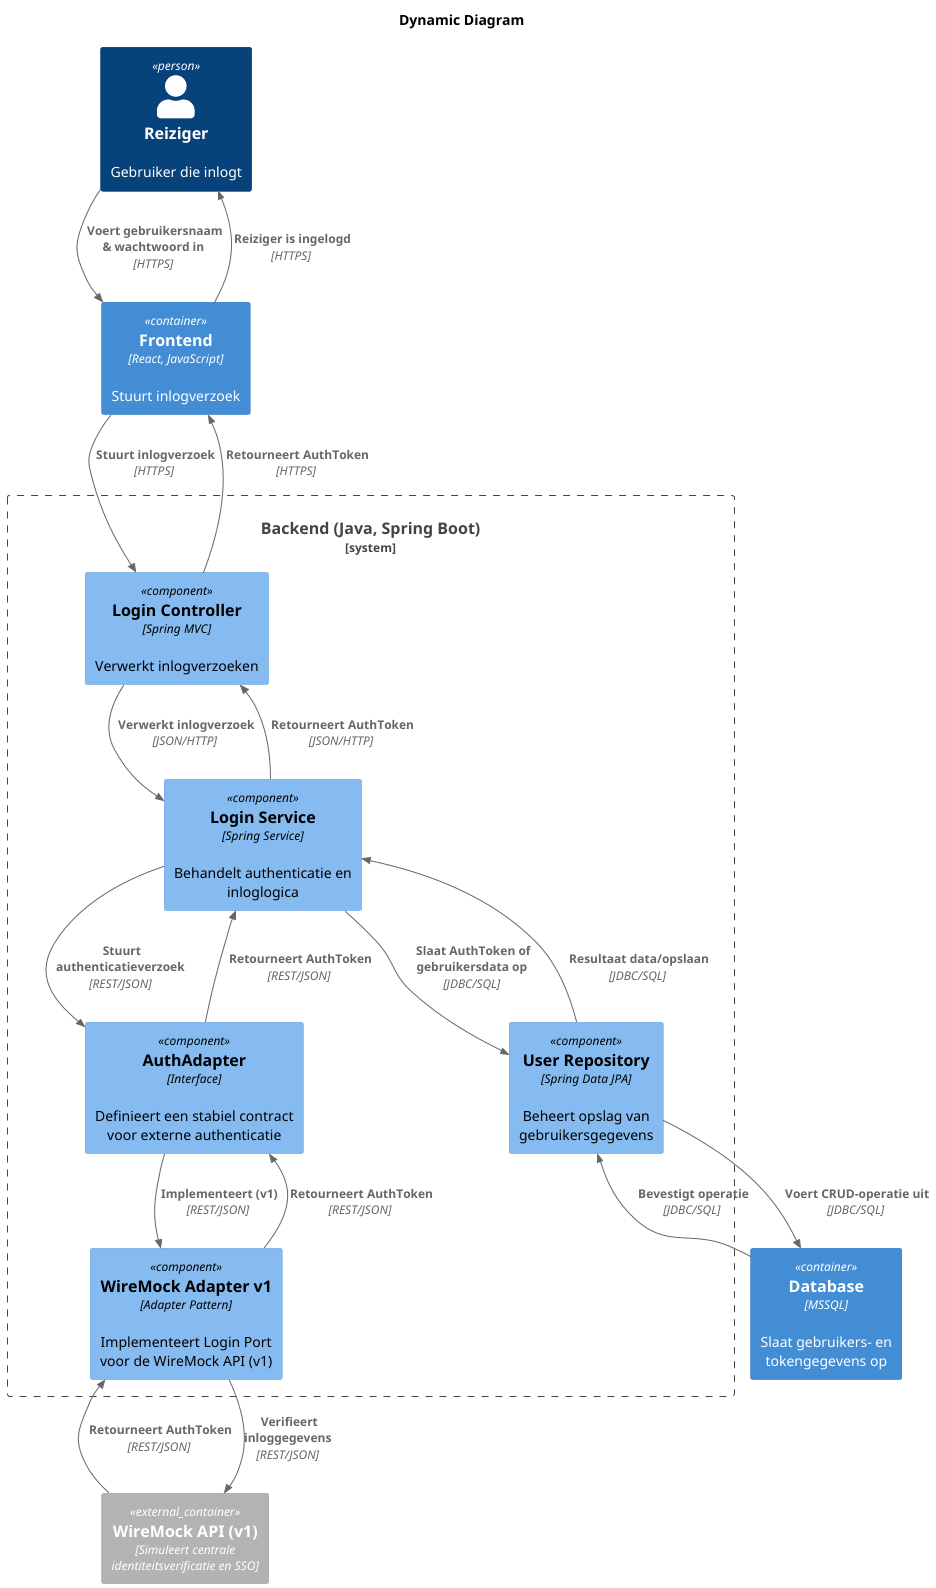
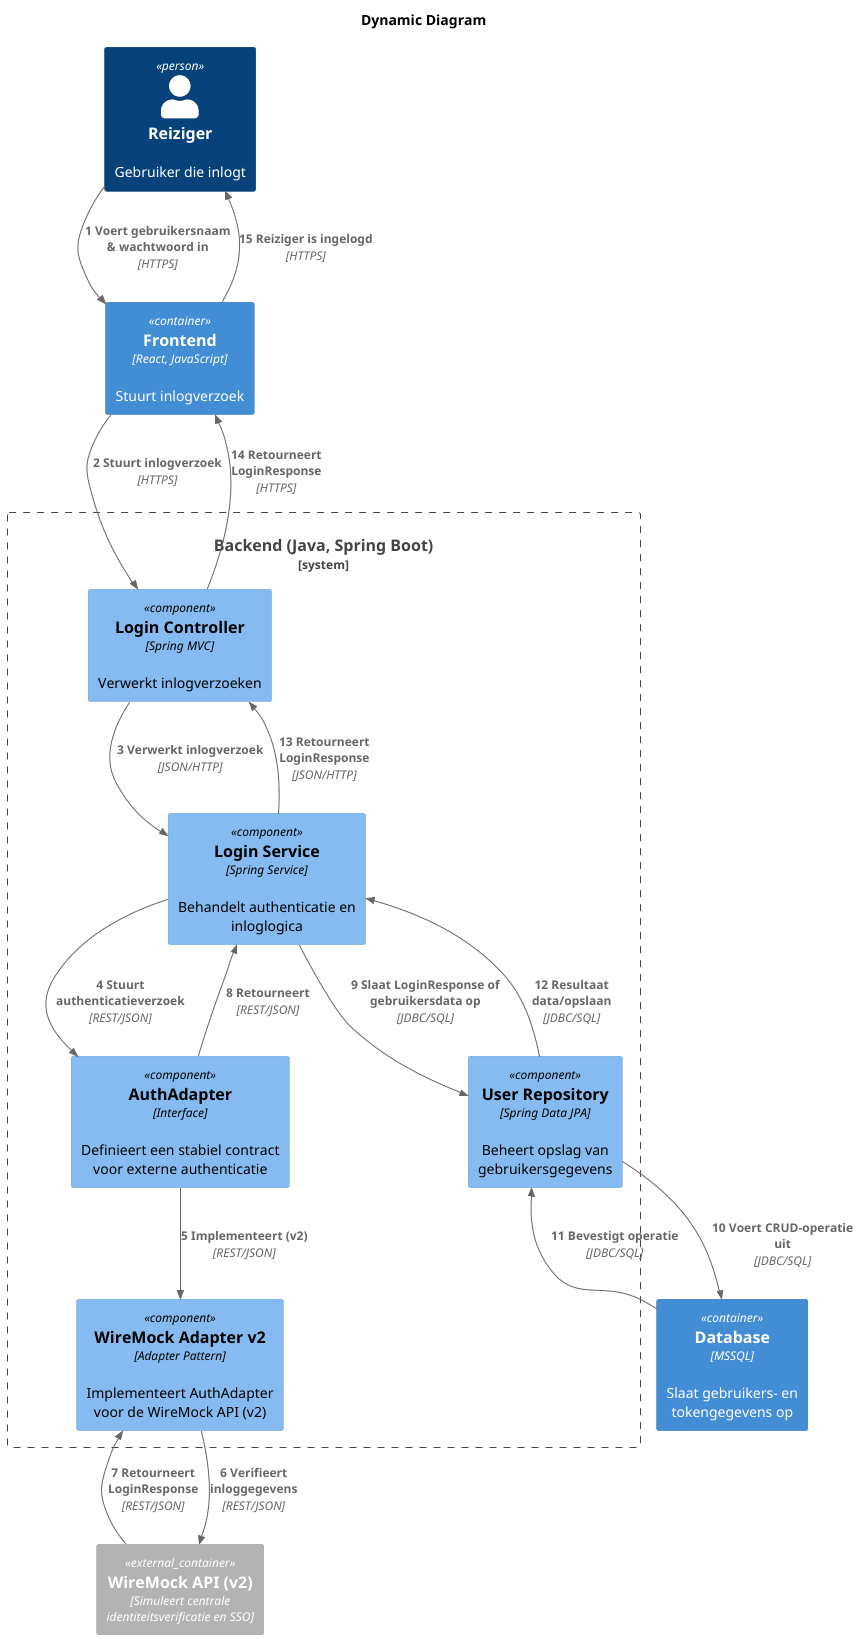
update

Changed region(s): [[0.0302, 0.0309, 0.9977, 1.0], [0.4233, 0.0, 0.5442, 0.0309]]

diff --git a/software-guidebook/README.md b/software-guidebook/README.md
@@ -32,6 +32,7 @@ Het onderstaande diagram toont de context van Triptop, inclusief de gebruikers e
 
 We hebben besloten om ReisAgent niet een person te maken in ons context diagram. Dit is omdat er geen user story voor de reisagent is en dus geen functionaliteit heeft binnen de applicatie.  Als er een extra functionaliteit voor de reisagent komt zal hij toegevoegd worden aan het context diagram.
 
+We gebruiken als betalingsprovider Stripe. Dit is verantwoord in onze [Stripe ADR](#adr-001-keuze-van-payment-service-provider-psp)
 ## 3. Functional Overview
 
 Om de belangrijkste features toe te lichten zijn er user stories en twee domain stories gemaakt en een overzicht van het domein in de vorm van een domeinmodel. Op deze plek staat typisch een user story map maar die ontbreekt in dit voorbeeld.
@@ -91,7 +92,6 @@ Voordat deze casusomschrijving tot stand kwam, heeft de opdrachtgever de volgend
 
 ### Ontwerpvraag
 Hoe zorg je dat een wijziging in een of meerdere APIs niet leidt tot een grote wijziging in de applicatie? Specifieker: hoe zorg je ervoor dat een wijziging in de API van een externe service niet leidt tot een wijziging in de front-end maar flexibel kan worden opgevangen door de back-end?
-### Context
 
 De TripTop applicatie gebruikt een centrale authenticatieprovider die gebaseerd is op de WireMock API. Gebruikers loggen in via deze externe service, en de applicatie haalt daarvoor een token op en controleert de toegangsrechten via een "check" endpoint.
 
@@ -136,30 +136,32 @@ De TripTop applicatie gebruikt een centrale authenticatieprovider die gebaseerd 
     </response>
     ```
 
-### Design Patterns en Design Principles
+### Design Patterns 
 
 
-1. **Adapter Pattern:**
+**Adapter Pattern:**
 - We hebben een uniforme interface (bijvoorbeeld `AuthAdapter`) gedefinieerd die twee concrete implementaties heeft:
   - **WireMockAuthAdapterV1:** voor de oude API.
   - **WireMockAuthAdapterV2:** voor de nieuwe API.
 - Beide adapters bieden dezelfde methodes (bijv. `login()` en `check()`) en retourneren altijd een uniform DTO (bijvoorbeeld `LoginResponse` en `CheckResponse`).
 - Hierdoor hoeft de controller (en dus de front-end) niets te weten van de verschillen tussen de oude en nieuwe API. Alleen de back-end adapter past zich aan op basis van de configuratie of op basis van de tokenlengte (bijvoorbeeld: bestaande gebruikers blijven via V1, nieuwe gebruikers via V2).
 
-2. **Single Responsibility Principle (SRP):**
+### Design Principles
+
+1. **Single Responsibility Principle (SRP):**
 - Elke klasse heeft één verantwoordelijkheid. Zo beheert de adapter de communicatie met de externe API en vertaalt deze response naar de interne DTO's.
 - De service laag beheert de businesslogica en de gebruikerssessies, terwijl de controller zich alleen richt op het ontvangen en retourneren van HTTP-verzoeken.
 
-3. **Open/Closed Principle (OCP):**
+2. **Open/Closed Principle (OCP):**
 - De back-end is zo opgezet dat deze openstaat voor uitbreiding (bijvoorbeeld voor een derde versie van de API) zonder dat bestaande code aangepast hoeft te worden. Nieuwe adapters kunnen eenvoudig toegevoegd worden.
 
-4. **Dependency Inversion Principle (DIP):**
+3. **Dependency Inversion Principle (DIP):**
 - De controller en service laag werken tegen de abstracte interface (`AuthAdapter`) in plaats van tegen concrete implementaties. Hierdoor kunnen we de concrete implementatie (V1 of V2) eenvoudig wisselen zonder dat de hogere lagen (controller, service) gewijzigd hoeven te worden.
 
-#### Component Diagram
+### Component Diagram
 ![Component Diagram](component-code/ahmed/component-Component_Diagram___TripTop_Backend.png)
 
-#### Toelichting Component Diagram
+
 
 - **Frontend:**  
   De gebruikersinterface die de gebruiker in staat stelt om reizen te plannen en te beheren.
@@ -178,13 +180,20 @@ De TripTop applicatie gebruikt een centrale authenticatieprovider die gebaseerd 
 - **Database:**  
   Een MSSQL-database die gebruikers informatie beheert.
 
----
+Ik heb besloten om WireMock Adapter v1 en v2 op te nemen in het component diagram, omdat ik het duidelijk kan maken via het diagram dat er gebruik gemaakt wordt van een adapter.
 
-#### Code Diagram – TripTop Applicatie
+---
+### Dynamic Diagram
+![Dynamic Diagram](component-code/ahmed/dynamic-Dynamic_Diagram.png)
+
+Dit is een dynamisch diagram voor het inloggen met Wiremock V2.
+LoginResponse is te vinden in het Code Diagram.
+
+### Code Diagram
 
 
 ![Code Diagram](component-code/ahmed/login-Login_Component_Class_Diagram.png)
-#### Toelichting Code Diagram
+
 
 - **AuthController:**  
   De controller ontvangt HTTP-verzoeken (login en check) en roept de AuthService aan om de businesslogica uit te voeren. Hij ontvangt en retourneert DTO's (AuthLoginRequest/Response en AuthCheckRequest/Response).
@@ -208,13 +217,18 @@ De TripTop applicatie gebruikt een centrale authenticatieprovider die gebaseerd 
   - **AuthCheckRequest:** Bevat gebruikersnaam en de application voor de check.
   - **AuthCheckResponse:** Bevat de toegangsstatus (access) en de rol (role) na het uitvoeren van de check.
 
+
+### Sequence Diagram
+![Sequence Diagram](component-code/ahmed/sequence.png)
+
+
 ---
 ## Toelichting Amine
-### ontwerpvraag
+### Ontwerpvraag
 Ik heb voor dit project gekozen voor de ontwerpvraag: Hoe zorg je ervoor dat je makkelijk de ene externe service kan vervangen door een andere die ongeveer hetzelfde doet?
 Ik vond deze vraag interessant omdat ik in mijn project met verschillende externe services moet werken en het belangrijk is dat ik deze makkelijk kan vervangen zonder dat dit invloed heeft op de rest van de applicatie.
 
-### Bijpassend design pattern
+### Design pattern
 Het design pattern waar ik voor gekozen heb is het Adapter pattern. Dit pattern maakt het mogelijk om de communicatie met externe services op een uniforme manier te organiseren. Door gebruik te maken van adapters kan ik verschillende externe services integreren zonder dat dit invloed heeft op de rest van de applicatie. Dit zorgt ervoor dat ik makkelijk kan switchen tussen verschillende services zonder dat ik de rest van de applicatie hoef aan te passen.
 
 Ik heb voor dit project meerdere design patterns overwogen, maar uiteindelijk gekozen voor het Adapter pattern omdat dit het beste aansluit bij mijn ontwerpvraag. Het Strategy Pattern bijvoorbeeld zou ook een optie zijn, maar dit zou meer complexiteit met zich meebrengen dan nodig is voor dit project. Het Adapter pattern is eenvoudig te implementeren en zorgt ervoor dat ik makkelijk kan switchen tussen verschillende externe services zonder dat dit invloed heeft op de rest van de applicatie.
@@ -226,27 +240,27 @@ Ik heb ervoor gekozen om het Dependency Inversion Principle (DIP) toe te passen 
 
 
 ### Component diagram
-![component diagram](component-code/amine/Component%20diagram.png)
+![component diagram](component-code/amine/component-diagram.png)
 
 Hierboven zie je mijn component diagram. Ik heb in dit geval alleen het gedeelte van de betalingen gemaakt.
 Wat goed is im in het achterhoofd te houden is dat er wel sprake is van een payment Port, maar ik deze niet heb meegenomen omdat deze in de Service zit.
 Verder toon ik in dit diagram alleen de stripe adapter. De bedoeling is dat ik de stripe adapter en de paypal adapter gemakkelijk moet kunnen omwisselen.
 
 ### Dynamic component diagram
-![Dynamic component diagram](component-code/amine/Dynamic Component%20diagram.png)
+![Dynamic component diagram](component-code/amine/Dynamic-component-diagram.png)
 
 Hierboven zie je mijn dynamische component diagram. Dit diagram laat zien hoe de verschillende componenten met elkaar communiceren en hoe de adapters de communicatie met de externe services afhandelen.
 
 
-### code diagram
-![code diagram](component-code/amine/Code%20diagram.png)
+### Code diagram
+![code diagram](component-code/amine/code-diagram.png)
 
 Hierboven zie je mijn code diagram. Hier ga ik specifiek in op de technische zaken. Ik heb voor dit prototype goed gekeken naar wat de gemene deler was voor het afhandelen van een betaling voor de stripe en paypal API. In beide gevallen moest er eerst een "order" gemaakt worden die vervolgens geaccepteerd kan worden. Ik heb de functies voor het maken van de order en het accepteren van de order in een "PaymentPort" gezet. Dit zorgt ervoor dat ik deze functies makkelijk kan implementeren in de adapters voor de verschillende externe services.
 Hierdoor kan ik door middel van het aangeven in de properties gemakkelijk omschakelen van Paypal naar Stripe.
 De betalingen worden uiteraard ook netjes opgeslagen in de database.
 
-### sequence diagram
-![sequence diagram](component-code/amine/Sequence%20diagram.png)
+### Sequence diagram
+![sequence diagram](component-code/amine/Sequence-diagram.png)
 
 Hierboven zie je mijn sequence diagram. Dit diagram laat zien hoe de verschillende componenten met elkaar communiceren en hoe de adapters de communicatie met de externe services afhandelen.
 
@@ -254,8 +268,9 @@ Hierboven zie je mijn sequence diagram. Dit diagram laat zien hoe de verschillen
 
 Hoe kunnen we verschillende betalingssystemen integreren voor de verschillende bouwstenen?
 
-## Component Diagram
+### Component Diagram
 ![Component Diagram](component-code/simme/component-diagram.png)
+
 Dit diagram toont de structurele organisatie en afhankelijkheden tussen de verschillende modules in het systeem. Het diagram laat zien:
 
 - Een duidelijke scheiding tussen frontend en backend-componenten, met een API-grens via de BetalingController
@@ -268,7 +283,7 @@ Deze componentarchitectuur vormt een "payment hub"-benadering, waarbij een gespe
 
 De gekozen architectuur implementeert de aanbevolen praktijken voor betalingssysteemintegratie, waaronder directe API-integratie met adaptermechanismen voor het beheren van meerdere betalingsgateways.
 
-## Dynamic Component Diagram
+### Dynamic Component Diagram
 
 ![Dynamic component diagram](component-code/simme/dynamic-diagram.png)
 
@@ -281,7 +296,7 @@ Dit dynamisch diagram visualiseert de volledige levenscyclus van een betalingstr
 
 Deze architectuur biedt een robuuste manier om meerdere betalingsproviders te ondersteunen zonder de kernlogica van het systeem aan te tasten. De genummerde stappen maken de procesflow duidelijk traceerbaar en debugbaar.
 
-## Sequence Diagram
+### Sequence Diagram
 
 ![Sequence](component-code/simme/sequence-diagram.png)
 Het sequence diagram detailleert de exacte interacties tussen systeemcomponenten tijdens het betalingsproces. Het diagram:
@@ -293,7 +308,7 @@ Het sequence diagram detailleert de exacte interacties tussen systeemcomponenten
 
 Het diagram biedt een gedetailleerd overzicht van zowel de normale betalingsflow als alternatieve paden zoals annuleringen en statuscontroles. Deze methodische weergave verzekert dat alle mogelijke interacties correct worden geïmplementeerd.
 
-## Class Diagram
+### Class Diagram
 
 ![Component Diagram](component-code/simme/class-diagram.png)
 
@@ -307,7 +322,7 @@ Het klassendiagram definieert de structurele elementen en hun relaties binnen he
 
 Deze architectuur maakt het toevoegen van nieuwe betalingsmethoden eenvoudig door simpelweg een nieuwe adapter te implementeren die voldoet aan de interface, zonder wijzigingen aan de kerncode.
 
-### Toelichting Sybren
+## Toelichting Sybren
 
 
 ### Ontwerpvraag
@@ -320,7 +335,7 @@ Een design principe die op dit ontwerp is toegepast, is de Dependency Inversion.
 
 ---
 
-### STATISCHE COMPONENT DIAGRAM
+### Component Diagram
 
 ![Component Diagram](component-code/sybren/component-diagram.png)
 
@@ -332,7 +347,7 @@ Als laatste zie je dat de BoekingOverzichtService BoekingingInterface implemente
 
 ---
 
-### CODE DIAGRAM
+### Code Diagram
 ![](component-code/sybren/class-diagram.png)
 In deze klassendiagram zijn twee domein klassen te zien, namelijk Boeking en Overnachting. Er wordt hier onderscheid gemaakt tussen een boeking en overnachting, omdat deze
 op een andere manier afgehandeld worden. Er is sprake van een overnachting als de reiziger naar mogelijke opties zoekt. Als een bepaalde overnachting gekozen wordt en deze ook geboekt wordt, is er sprake van een boeking.
@@ -341,10 +356,10 @@ op een andere manier afgehandeld worden. Er is sprake van een overnachting als d
 
     
 ---
-### DYNAMISCHE COMPONENT DIAGRAM
+### Dynamic Diagram
 ![](component-code/sybren/dynamische-component-diagram.png)
 
-### SEQUENCE DIAGRAM
+### Sequence Diagram
 ![](component-code/sybren/sequence-diagram-sybren.png)
 
 
@@ -365,6 +380,8 @@ De container diagram toont in meer detail hoe Triptop integreert met de verschil
 
 We hebben besloten om ReisAgent niet een person te maken in ons context diagram. Dit is omdat er geen user story voor de reisagent is en dus geen functionaliteit heeft binnen de applicatie.
 
+We hebben voor de backend besloten om Spring boot te gebruiken als framework. Dit is verantwoord in onze [Framework ADR](#adr-003-framework-keuze-voor-triptop-systeem)
+Onze database keuze is verantwoord in onze [Database ADR](#adr-005-database-keuze-voor-triptop-systeem)
 
 ### 7.2 Dynamische Container Diagram
 ### 7.2.1  Inloggen
@@ -504,9 +521,9 @@ Voor het realiseren van een werkend prototype is het essentieel het juiste frame
 
 | **Criteria**               | **Spring Boot** | **Quarkus** | **Micronaut** | **Jakarta EE** | **Vert.x** | **Dropwizard** | **Helidon** |
 |----------------------------|:---------------:|:-----------:|:-------------:|:--------------:|:----------:|:--------------:|:-----------:|
-| **Makkelijk in gebruik**   | ++              | +           | +             | -              | --         | +              | -           |
-| **Opstarttijd**            | -               | ++          | +             | --             | ++         | 0              | +           |
-| **Geheugengebruik**        | -               | ++          | +             | 0              | ++         | 0              | +           |
+| **Makkelijk in gebruik <sup>1</sup>**   | ++              | +           | +             | -              | --         | +              | -           |
+| **Snelheid opstarttijd <sup>2</sup>**         | -               | ++          | +             | --             | ++         | 0              | +           |
+| **Geheugengebruik <sup>3</sup>**       | -               | ++          | +             | 0              | ++         | 0              | +           |
 | **Community & Ecosysteem** | ++              | +           | +             | 0              | -          | 0              | -           |
 | **Team Ervaring**          | ++              | --          | --            | --             | --         | --             | --          |
 
@@ -521,11 +538,13 @@ Wij kiezen voor **Spring Boot** vanwege de uitstekende gebruiksvriendelijkheid, 
 
 #### Bronnen
 
-- Venturelli, I. (2024, December 6). Choosing the right Java microservices framework: Spring Boot, Quarkus, Micronaut, and beyond. Medium. https://medium.com/codex/choosing-the-right-java-microservices-framework-spring-boot-quarkus-micronaut-and-beyond-e53f11704e58
+#### Bronnen
 
-- Chmielarz, M. (2025, March 24). Overview of next-generation Java frameworks. SoftwareMill. https://softwaremill.com/overview-of-next-generation-java-frameworks/
+<sup>1</sup> Johns, R. (n.d.). Want to level up in Java? Use these Java frameworks! Hackr.io. https://hackr.io/blog/java-frameworks
 
-- Dansiviter. (2021, June 27). Opinionated take on Java Microservices Frameworks. DEV Community. https://dev.to/dansiviter/opinionated-take-on-java-microservices-frameworks-4ebh
+<sup>2</sup> Dansiviter. (2021, June 27). Opinionated take on Java Microservices Frameworks. DEV Community. https://dev.to/dansiviter/opinionated-take-on-java-microservices-frameworks-4ebh
+
+<sup>3</sup> 4 Microservice frameworks in comparison, streaming example included. (n.d.). https://blogs.itemis.com/en/4-microservice-frameworks-in-comparsion-example-included
 
 ---
 
@@ -747,6 +766,42 @@ Gevolgen
 - Elke nieuwe externe service zal een aparte adapter vereisen.
 - De adapters kunnen eenvoudiger worden getest, omdat ze een afzonderlijke laag vormen die de communicatie tussen ons systeem en de externe systemen afhandelt.
 
+
+### **ADR-009: Keuze inplementatie BoekingInterface**
+
+#### **Status**
+Geaccepteerd
+
+#### **Context**
+Het is belangrijk om een goede keuze te maken op welke plek een interface geimplementeerd moet worden.
+
+#### **Decision Forces**
+| **Criteria**               | **BookingComAdapter** | **InternBoekingSysteem** | **BoekingComAdpater en InternBoekingSysteem** | **BoekingOverzichtService** | 
+|----------------------------|:---------------------:|:------------------------:|:---------------------------------------------:|-----------------------------|
+| **Afhankelijkheid**        |           -           |            -             |                       +                       | +                           |
+| **Code duplicatie**        |                       |                          |                       -                       | +                           | 
+| **Makkelijk uitbreidbaar** |           -           |            -             |                       -                       | -                           |
+
+#### **Alternatieven**
+- implementatie BookingComAdapter: zorgt ervoor dat InternBoekingSysteem afhankelijk wordt BookingComAdapter
+- implementatie InternBoekingSysteem: zorgt ervoor dat BookingComAdapter afhankelijk wordt van InternBoekingSysteem
+- implementatie BookingComAdapter en InternBoekingSysteem: zorgt ervoor dat de afhankelijkheid er niet is, maar zorgt wel voor code duplicatie.
+- implementatie BoekingOverzichtService: zorgt ervoor dat je code duplicatie voorkomt, er geen afhankelijkheden zijn en dat de code makkelijk uitbreidbaar is.
+
+#### **Beslissing**
+Er is besloten om de klasse BoekingOverzichtService de interfacde BoekingInterface te laten implementeren.
+
+
+#### **Consequenties**
+
+##### Voordelen
+- De BookingComAdapter en InterneBoekingSysteem niet direct van elkaar afhankelijk worden
+- Voorkomt code duplicatie, waardoor onderhouden van het systeem eenvoudiger wordt.
+- Betere scheiding van afhankelijkheden
+
+##### Nadelen
+- Elke keer als er een nieuwe klasse wordt toegevoegd, moet de interface aangepast worden.
+- Extra abastractie laag kan het systeem complexer maken.
 
 
 ---
